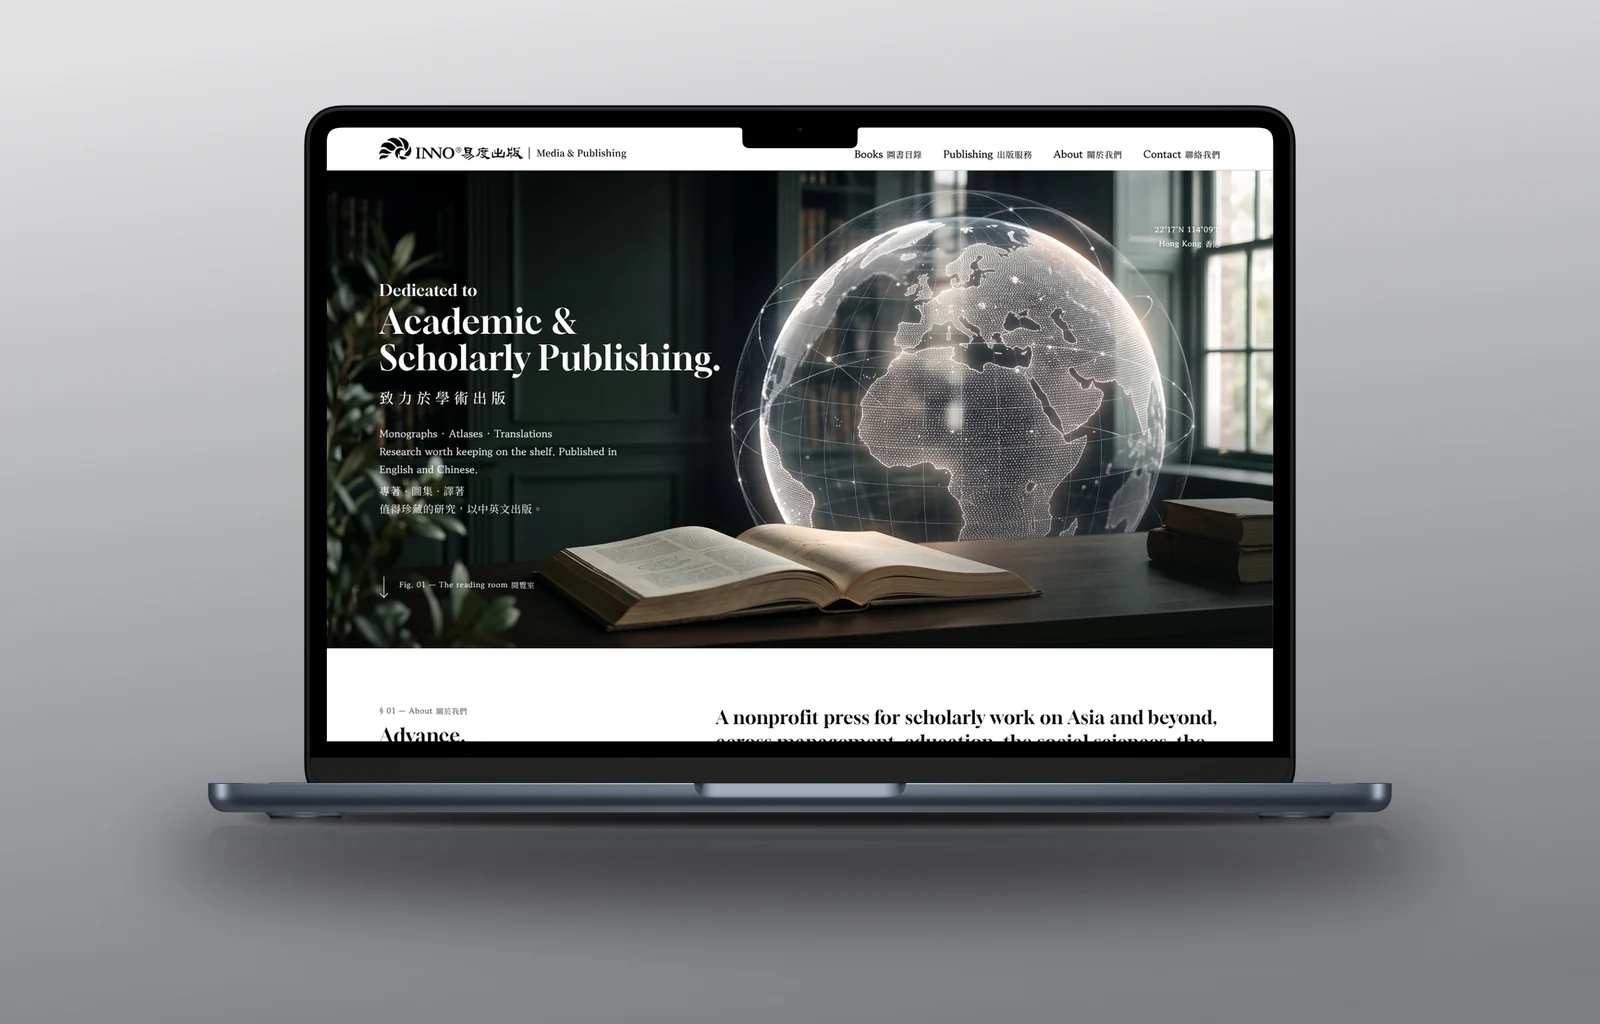
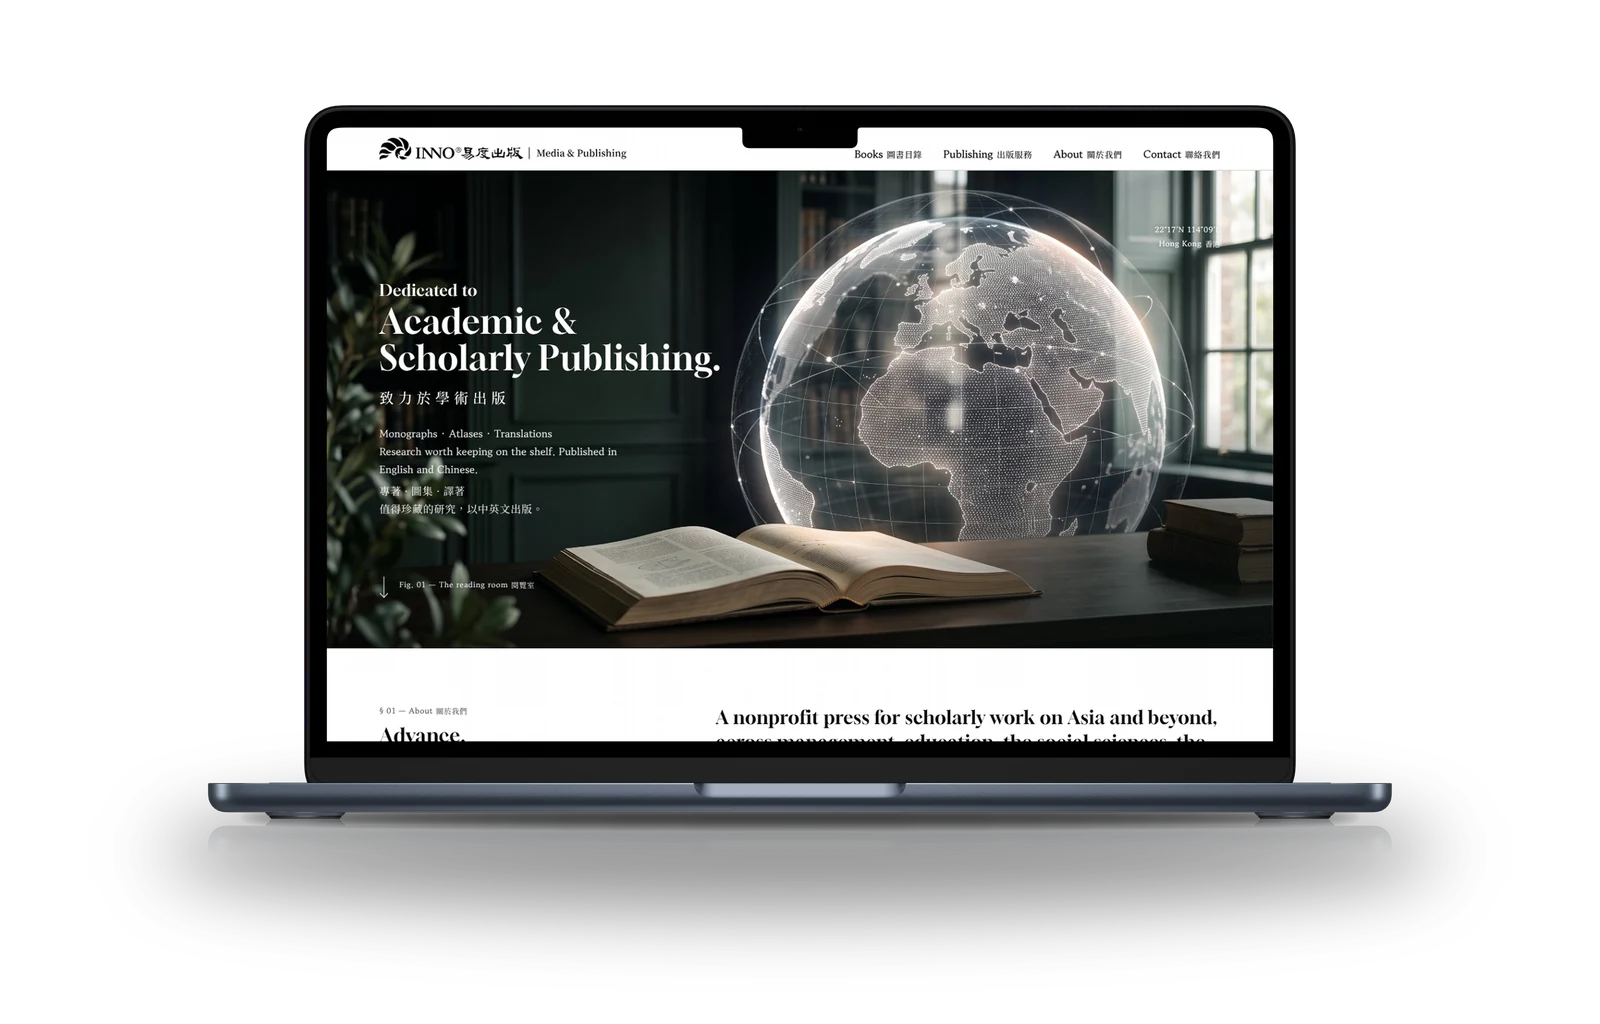
Website mockups on the same background as the app work
Claude-Session: https://claude.ai/code/session_01WFLTsLuepfh6ZbVr5m68pB

diff --git a/index.html b/index.html
@@ -498,7 +498,7 @@
     ].map(([k, name, pages]) => [k, pages.map((pg, n) => [`img/mac/${k}-${n + 1}.webp`, `${name} — ${pg}, shown on a laptop`])]));
     /* website work shown on a MacBook Air (ls.graphics mockup, licensed); images are pre-rendered in img/mac/ */
     function monitor(src, alt, wide = false) {
-      return `<div class="w-full h-full flex items-center justify-center bg-[#b0b1b4]"><img src="${src}" alt="${alt}" loading="lazy" draggable="false" class="w-full h-full object-cover"></div>`;
+      return `<div class="w-full h-full flex items-center justify-center"><img src="${src}" alt="${alt}" loading="lazy" draggable="false" class="w-full h-full object-contain"></div>`;
     }
     function plate(w, big) {
       const d = DIR[w.key];

diff --git a/docs/PROJECT.md b/docs/PROJECT.md
@@ -106,7 +106,7 @@
 | Innopublishing | WORK-WEB / UI/UX | innopublishing.com |
 | INNO 改版 | WORK-BRAND / BRANDING | innostudio.net（11-26：案例文字改为英文 + 芬兰语双语；封面换成上线网站真实截图 img/inno-home.webp） |
 
-   - 11-26：三个网站作品用用户购买的 **ls.graphics MacBook Air 2022 样机**（PSD）合成：浅灰渐变背景（11-27 调浅：#E2E2E3 → #B0B1B4 → #7C7D82），详情页图片铺满不留边、电脑放在平面上（接触阴影 + 淡倒影）。**每个网站 5 页**，详情页可左右翻：
+   - 11-26：三个网站作品用用户购买的 **ls.graphics MacBook Air 2022 样机**（PSD）合成：透明背景（11-27：和 App 作品一样直接用页面浅灰底 + 网格，只保留电脑和阴影）、电脑放在平面上（接触阴影 + 淡倒影）。**每个网站 5 页**，详情页可左右翻：
      - RUSKA NORDIC：首页 / Design Labs / Global Trade / Wico 页 / Contact
      - Innopublishing：首页 / 新书 / 全部书目 / 单本书页 / 出版服务
      - INNO：首页 / 服务 / 作品 / 流程 / 联系
